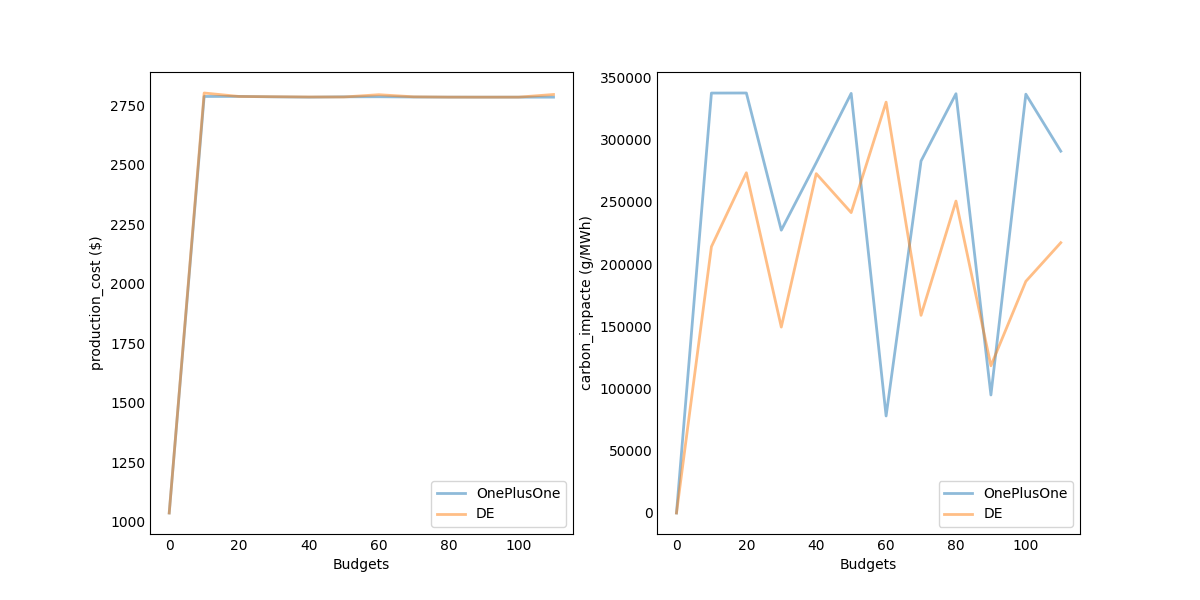
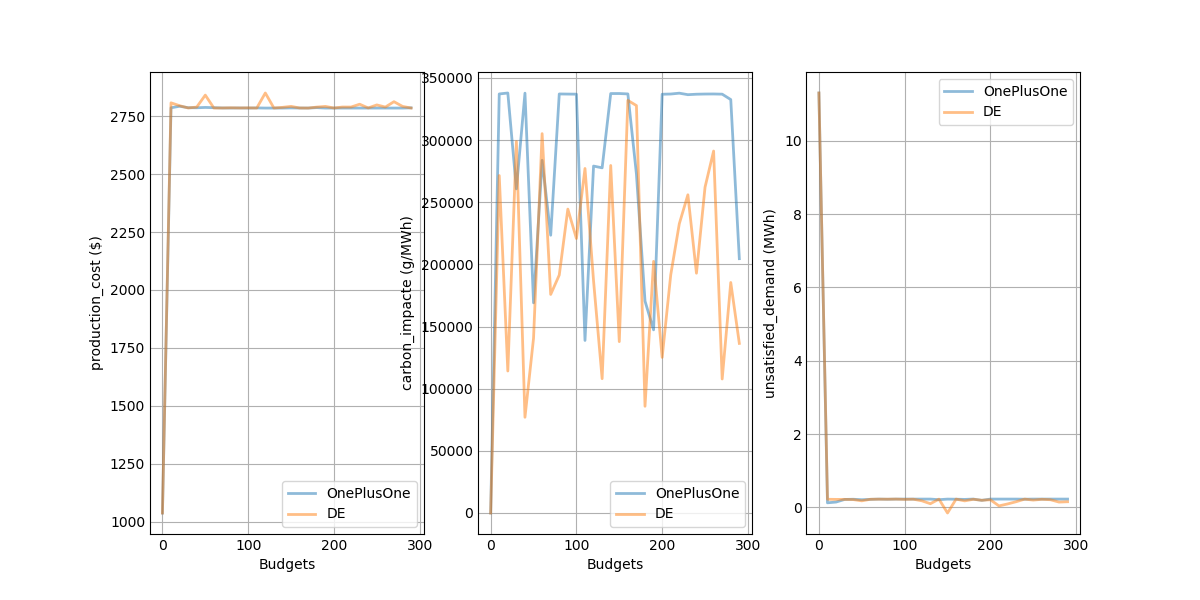
refactorization

diff --git a/Evaluation.py b/Evaluation.py
@@ -39,16 +39,13 @@ class Evaluation:
         
         # labels and parametrizations    
 
-        #axs.grid(b=True, which='major', c='w', lw=2, ls='-')
         for n_axs in range(0,len(axs)) :
+            axs[n_axs].grid()
             axs[n_axs].yaxis.set_tick_params(length=0)
             axs[n_axs].xaxis.set_tick_params(length=0)
             axs[n_axs].set_xlabel('Budgets')
             axs[n_axs].set_ylabel(label_y[n_axs])
             axs[n_axs].legend()
-        #legend.get_frame().set_alpha(0.5)
-        #for spine in ('top', 'right', 'bottom', 'left'):
-        #    axs.spines[spine].set_visible(False)
         plt.show()
         
     def evaluate(self, mix, sequence, max_budgets, optimizer_list: List['str'], indicator_list: List['str'], bind=None, carbonProdLimit: float = 39500000000, time_interval : float = 2) :        
@@ -67,41 +64,18 @@ class Evaluation:
 
         #process
         y_tmp = {}
-        y=[]
         budget = np.arange(0, max_budgets, sequence)
-        prod_per_opt={}
-        carbon_per_opt={}
-        demand_per_opt={}
-        for opt in optimizer_list:
-            prod_per_budget=[]
-            carbon_per_budget=[]
-            demand_per_budget=[]
-            for b in budget:
-                data=mix.simuleMix(current_usage_coef=[0.6, 0.2, 0.7, 0.95], carbonProdLimit= carbonProdLimit, 
-                                   time_interval = time_interval, optimize_with = [opt], budgets = [b], plot = "none", verbose = 1)
-                #for indicator in indicator_list:
-                #   y_tmp.update({indicator:float(data[indicator])})
-                prod_per_budget.append(float(data["production_cost ($)"]))
-                carbon_per_budget.append(float(data["carbon_impacte (g/MWh)"]))
-                demand_per_budget.append(float(data["unsatisfied_demand (MWh)"]))
-            prod_per_opt.update({opt:prod_per_budget})
-            carbon_per_opt.update({opt:carbon_per_budget})
-            demand_per_opt.update({opt:demand_per_budget})
-        y_tmp.update({"production_cost ($)":prod_per_opt})
-        y_tmp.update({"carbon_impacte (g/MWh)":carbon_per_opt})
-        y_tmp.update({"unsatisfied_demand (MWh)":demand_per_opt})
-        
-        #plotting
 
-#        y_re_tmp = {}
-#        for indicator in indicator_list:
-#            list_array = []
-#            for cur_y in y:
-#                print(cur_y)
-#                list_array.append(cur_y[indicator])
-#            y_re_tmp.update({indicator: list_array})
-#        print(y_re_tmp)
+        for indicator in indicator_list:
+            ind_per_opt = {}
+            for opt in optimizer_list:
+                ind_per_budget = []
+                for b in budget:
+                    data=mix.simuleMix(current_usage_coef=[0.6, 0.2, 0.7, 0.95], carbonProdLimit= carbonProdLimit, 
+                                    time_interval = time_interval, optimize_with = [opt], budgets = [b], plot = "none", verbose = 1)
+                    ind_per_budget.append(float(data[indicator]))
+                ind_per_opt.update({opt:ind_per_budget})
+            y_tmp.update({indicator:ind_per_opt})
+
+        #plotting
         self.plot_evaluation(X=np.array(budget),Y=y_tmp,label_y = indicator_list, label=optimizer_list, max_budgets = max_budgets)
-        #self, X = 0,Y = 0,label : list = ["Optimizer"],label_y : List["str"], max_budgets = 0
-    ########EXAMPLES    
-    # evaluate(sys.argv[1], 10, 160)

diff --git a/main.py b/main.py
@@ -36,4 +36,4 @@ mix = MixSimulator()
 mix.set_data_csv("data/RIToamasina/dataset_RI_Toamasina.csv")
 #mix.simuleMix(current_usage_coef=[0.6, 0.2, 0.7, 0.95], carbonProdLimit= 3950000000000, time_interval = 2, optimize_with = ["OnePlusOne"], budgets = [100])
 eva=Evaluation()
-eva.evaluate(mix,10,300,["OnePlusOne","DE"],["production_cost ($)","carbon_impacte (g/MWh)","unsatisfied_demand (MWh)"])
+eva.evaluate(mix, 10, 300, ["OnePlusOne","DE"], ["production_cost ($)","carbon_impacte (g/MWh)","unsatisfied_demand (MWh)"])
